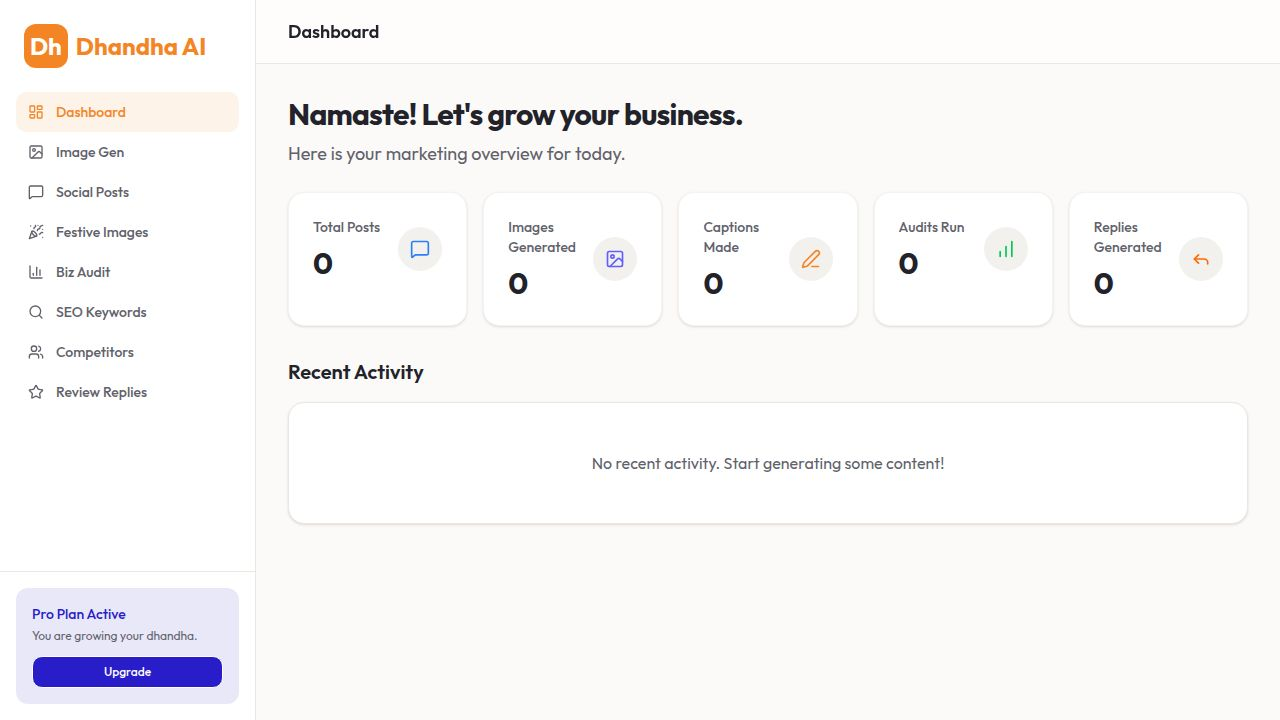
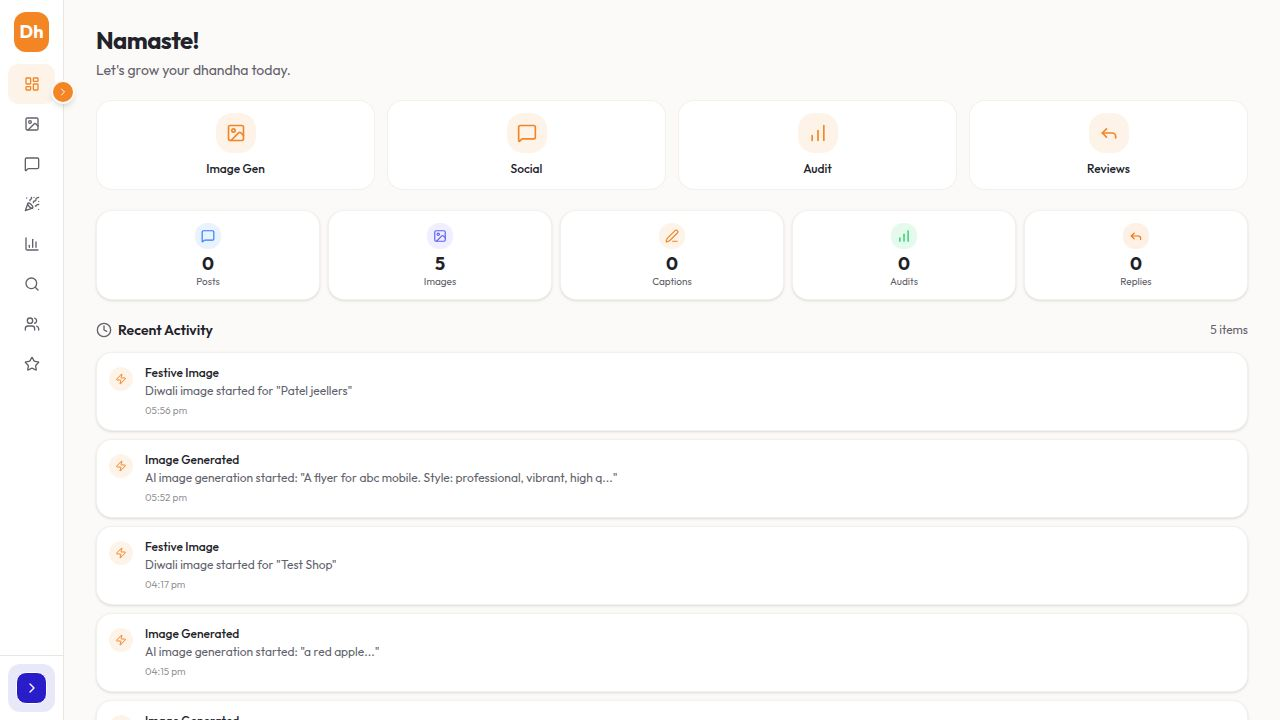
Make the app feel more native and add a one-click Google review posting feature
Update UI to feel more app-like by collapsing the sidebar by default and reorganizing the dashboard. Add a "Copy & Post to Google" button to the review replies section that copies the AI-generated reply and opens the Google Business Profile reviews page.

Replit-Commit-Author: Agent
Replit-Commit-Session-Id: d0573a34-e305-40b2-84bf-22c1485f2ccc
Replit-Commit-Checkpoint-Type: full_checkpoint
Replit-Commit-Event-Id: 390b50ec-3d31-4836-8ac0-2c6d38821a1d
Replit-Commit-Screenshot-Url: https://storage.googleapis.com/screenshot-production-us-central1/495af8c6-737c-4300-bab5-6777eff9217d/d0573a34-e305-40b2-84bf-22c1485f2ccc/lvmfx3k
Replit-Helium-Checkpoint-Created: true

diff --git a/artifacts/dhandha-app/src/pages/review-replies.tsx b/artifacts/dhandha-app/src/pages/review-replies.tsx
@@ -6,7 +6,8 @@ import { Button } from "@/components/ui/button";
 import { Input } from "@/components/ui/input";
 import { Label } from "@/components/ui/label";
 import { Select, SelectContent, SelectItem, SelectTrigger, SelectValue } from "@/components/ui/select";
-import { Star, Copy, MessageSquare } from "lucide-react";
+import { Separator } from "@/components/ui/separator";
+import { Star, MessageSquare, ExternalLink, ClipboardCopy, CheckCircle } from "lucide-react";
 import { useToast } from "@/hooks/use-toast";
 
 export default function ReviewReplies() {
@@ -23,6 +24,7 @@ export default function ReviewReplies() {
     tone: ReviewReplyInputTone.professional,
   });
   const [reply, setReply] = useState<string | null>(null);
+  const [copied, setCopied] = useState(false);
 
   const replyMutation = useGenerateReviewReply();
 
@@ -31,6 +33,7 @@ export default function ReviewReplies() {
       toast({ title: "Fill in all required fields", variant: "destructive" });
       return;
     }
+    setCopied(false);
     replyMutation.mutate(
       { data: { ...form, rating: Number(form.rating) } },
       {
@@ -43,43 +46,69 @@ export default function ReviewReplies() {
     );
   };
 
-  const handleCopy = () => {
+  const handlePostToGoogle = async () => {
     if (!reply) return;
-    navigator.clipboard.writeText(reply);
-    toast({ title: "Reply copied!" });
+
+    try {
+      await navigator.clipboard.writeText(reply);
+      setCopied(true);
+      toast({ title: "Reply copied!" });
+
+      // Open Google Business Profile reviews page in new tab
+      const googleBusinessUrl = `https://business.google.com/reviews`;
+      window.open(googleBusinessUrl, "_blank");
+    } catch {
+      toast({ title: "Could not copy. Please copy manually.", variant: "destructive" });
+    }
+  };
+
+  const handleCopyOnly = async () => {
+    if (!reply) return;
+    try {
+      await navigator.clipboard.writeText(reply);
+      setCopied(true);
+      toast({ title: "Reply copied!" });
+    } catch {
+      toast({ title: "Could not copy", variant: "destructive" });
+    }
   };
 
   return (
     <Layout>
-      <div className="space-y-6 animate-in fade-in duration-500">
-        <div>
-          <h1 className="text-3xl font-bold tracking-tight">AI Review Replies</h1>
-          <p className="text-muted-foreground mt-2">Generate personalized, professional replies to your Google Reviews instantly.</p>
+      <div className="space-y-5 animate-in fade-in duration-300">
+        <div className="pb-2">
+          <h1 className="text-2xl font-bold tracking-tight">Review Replies</h1>
+          <p className="text-muted-foreground mt-1 text-sm">Generate AI replies and post them to Google.</p>
         </div>
 
-        <div className="grid grid-cols-1 lg:grid-cols-2 gap-6">
-          <Card>
-            <CardHeader>
-              <CardTitle>Customer Review</CardTitle>
-              <CardDescription>Paste the review and we will craft the perfect reply.</CardDescription>
+        {!reply ? (
+          <Card className="border-border/60">
+            <CardHeader className="pb-3">
+              <CardTitle className="text-base">Customer Review</CardTitle>
+              <CardDescription className="text-xs">Paste the review to get an AI-crafted reply.</CardDescription>
             </CardHeader>
             <CardContent className="space-y-4">
               <div className="space-y-2">
-                <Label>Business Name *</Label>
-                <Input data-testid="input-business-name" placeholder="e.g. Singh's Dhaba" value={form.businessName} onChange={(e) => setForm({ ...form, businessName: e.target.value })} />
+                <Label className="text-sm">Business Name</Label>
+                <Input
+                  data-testid="input-business-name"
+                  placeholder="e.g. Singh's Dhaba"
+                  value={form.businessName}
+                  onChange={(e) => setForm({ ...form, businessName: e.target.value })}
+                />
               </div>
               <div className="space-y-2">
-                <Label>Customer Review *</Label>
+                <Label className="text-sm">Customer Review</Label>
                 <textarea
                   data-testid="textarea-review"
-                  className="w-full min-h-[120px] rounded-md border border-input bg-background px-3 py-2 text-sm ring-offset-background placeholder:text-muted-foreground focus-visible:outline-none focus-visible:ring-2 focus-visible:ring-ring resize-none"
+                  className="w-full min-h-[100px] rounded-md border border-input bg-background px-3 py-2 text-sm ring-offset-background placeholder:text-muted-foreground focus-visible:outline-none focus-visible:ring-2 focus-visible:ring-ring resize-none"
                   placeholder="Paste the customer review here..."
                   value={form.reviewText}
                   onChange={(e) => setForm({ ...form, reviewText: e.target.value })}
                 />
               </div>
               <div className="space-y-2">
-                <Label>Star Rating</Label>
+                <Label className="text-sm">Star Rating</Label>
                 <div className="flex gap-2">
                   {[1, 2, 3, 4, 5].map((star) => (
                     <button
@@ -97,7 +126,7 @@ export default function ReviewReplies() {
                 </div>
               </div>
               <div className="space-y-2">
-                <Label>Reply Tone</Label>
+                <Label className="text-sm">Reply Tone</Label>
                 <Select value={form.tone} onValueChange={(v) => setForm({ ...form, tone: v as typeof ReviewReplyInputTone[keyof typeof ReviewReplyInputTone] })}>
                   <SelectTrigger data-testid="select-tone"><SelectValue /></SelectTrigger>
                   <SelectContent>
@@ -114,35 +143,63 @@ export default function ReviewReplies() {
               </Button>
             </CardContent>
           </Card>
-
-          <Card>
-            <CardHeader>
-              <div className="flex items-center justify-between">
-                <div>
-                  <CardTitle>Generated Reply</CardTitle>
-                  <CardDescription>Copy and paste this into your Google Business Profile.</CardDescription>
-                </div>
-                {reply && (
-                  <Button variant="outline" size="sm" data-testid="button-copy-reply" onClick={handleCopy}>
-                    <Copy className="h-4 w-4 mr-2" />Copy
-                  </Button>
-                )}
-              </div>
-            </CardHeader>
-            <CardContent>
-              {reply ? (
-                <div className="bg-muted/50 rounded-lg p-4">
+        ) : (
+          <div className="space-y-4">
+            <Card className="border-primary/20">
+              <CardHeader className="pb-3">
+                <CardTitle className="text-base">Generated Reply</CardTitle>
+                <CardDescription className="text-xs">Your AI reply is ready to post on Google.</CardDescription>
+              </CardHeader>
+              <CardContent>
+                <div className="bg-primary/5 border border-primary/10 rounded-lg p-4">
                   <p data-testid="text-reply" className="text-sm leading-relaxed whitespace-pre-wrap">{reply}</p>
                 </div>
-              ) : (
-                <div className="h-48 flex flex-col items-center justify-center border-2 border-dashed border-border rounded-lg text-muted-foreground">
-                  <MessageSquare className="h-10 w-10 mb-3 opacity-30" />
-                  <p className="text-sm">Your AI reply will appear here</p>
+
+                <div className="flex gap-2 mt-4">
+                  <Button className="flex-1" onClick={handlePostToGoogle} data-testid="button-post-google">
+                    <ExternalLink className="h-4 w-4 mr-2" />
+                    Copy & Post to Google
+                  </Button>
+                  <Button variant="outline" size="icon" onClick={handleCopyOnly} data-testid="button-copy-reply">
+                    {copied ? <CheckCircle className="h-4 w-4 text-green-500" /> : <ClipboardCopy className="h-4 w-4" />}
+                  </Button>
                 </div>
-              )}
-            </CardContent>
-          </Card>
-        </div>
+
+                <div className="flex gap-2 mt-3">
+                  <Button variant="ghost" className="w-full text-sm" onClick={() => { setReply(null); setCopied(false); }}>
+                    Generate another reply
+                  </Button>
+                </div>
+              </CardContent>
+            </Card>
+
+            <Card className="border-border/60">
+              <CardHeader className="pb-3">
+                <CardTitle className="text-base">Review Details</CardTitle>
+              </CardHeader>
+              <CardContent className="space-y-3">
+                <div>
+                  <p className="text-xs text-muted-foreground mb-1">Business</p>
+                  <p className="text-sm font-medium">{form.businessName}</p>
+                </div>
+                <Separator />
+                <div>
+                  <p className="text-xs text-muted-foreground mb-1">Rating</p>
+                  <div className="flex gap-1">
+                    {[1, 2, 3, 4, 5].map((s) => (
+                      <Star key={s} className={`h-4 w-4 ${form.rating >= s ? "text-yellow-400 fill-yellow-400" : "text-muted"}`} />
+                    ))}
+                  </div>
+                </div>
+                <Separator />
+                <div>
+                  <p className="text-xs text-muted-foreground mb-1">Original Review</p>
+                  <p className="text-sm text-muted-foreground line-clamp-3">{form.reviewText}</p>
+                </div>
+              </CardContent>
+            </Card>
+          </div>
+        )}
       </div>
     </Layout>
   );

diff --git a/artifacts/dhandha-app/src/pages/dashboard.tsx b/artifacts/dhandha-app/src/pages/dashboard.tsx
@@ -1,77 +1,108 @@
 import { Layout } from "@/components/layout";
-import { useGetDashboardSummary, getGetDashboardSummaryQueryKey } from "@workspace/api-client-react";
-import { Card, CardContent, CardHeader, CardTitle, CardDescription } from "@/components/ui/card";
-import { MessageSquare, ImageIcon, Edit3, BarChart, Reply, Clock } from "lucide-react";
+import { useGetDashboardSummary } from "@workspace/api-client-react";
+import { Card, CardContent } from "@/components/ui/card";
+import { MessageSquare, ImageIcon, Edit3, BarChart, Reply, Clock, TrendingUp, Zap } from "lucide-react";
 import { Skeleton } from "@/components/ui/skeleton";
 
 export default function Dashboard() {
   const { data: summary, isLoading } = useGetDashboardSummary();
 
   const stats = [
-    { label: "Total Posts", value: summary?.totalPosts, icon: MessageSquare, color: "text-blue-500" },
-    { label: "Images Generated", value: summary?.imagesGenerated, icon: ImageIcon, color: "text-indigo-500" },
-    { label: "Captions Made", value: summary?.captionsGenerated, icon: Edit3, color: "text-primary" },
-    { label: "Audits Run", value: summary?.auditsRun, icon: BarChart, color: "text-green-500" },
-    { label: "Replies Generated", value: summary?.repliesGenerated, icon: Reply, color: "text-orange-500" },
+    { label: "Posts", value: summary?.totalPosts, icon: MessageSquare, color: "bg-blue-500/10 text-blue-500" },
+    { label: "Images", value: summary?.imagesGenerated, icon: ImageIcon, color: "bg-indigo-500/10 text-indigo-500" },
+    { label: "Captions", value: summary?.captionsGenerated, icon: Edit3, color: "bg-primary/10 text-primary" },
+    { label: "Audits", value: summary?.auditsRun, icon: BarChart, color: "bg-green-500/10 text-green-500" },
+    { label: "Replies", value: summary?.repliesGenerated, icon: Reply, color: "bg-orange-500/10 text-orange-500" },
+  ];
+
+  const quickActions = [
+    { label: "Image Gen", icon: ImageIcon, href: "/image-generator" },
+    { label: "Social", icon: MessageSquare, href: "/social-posts" },
+    { label: "Audit", icon: BarChart, href: "/business-audit" },
+    { label: "Reviews", icon: Reply, href: "/review-replies" },
   ];
 
   return (
     <Layout>
-      <div className="space-y-6 animate-in fade-in zoom-in duration-500">
+      <div className="space-y-5 animate-in fade-in duration-300">
         <div>
-          <h1 className="text-3xl font-bold tracking-tight">Namaste! Let's grow your business.</h1>
-          <p className="text-muted-foreground mt-2 text-lg">Here is your marketing overview for today.</p>
+          <h1 className="text-2xl font-bold tracking-tight">Namaste!</h1>
+          <p className="text-muted-foreground mt-1 text-sm">Let's grow your dhandha today.</p>
         </div>
 
-        <div className="grid grid-cols-1 md:grid-cols-2 lg:grid-cols-5 gap-4">
+        {/* Quick Actions */}
+        <div className="grid grid-cols-4 gap-3">
+          {quickActions.map((action) => (
+            <a key={action.href} href={action.href} className="flex flex-col items-center gap-2 p-3 bg-card border border-border/60 rounded-xl hover:border-primary/40 hover:bg-primary/5 transition-colors">
+              <div className="bg-primary/10 p-2.5 rounded-xl">
+                <action.icon className="h-5 w-5 text-primary" />
+              </div>
+              <span className="text-xs font-medium">{action.label}</span>
+            </a>
+          ))}
+        </div>
+
+        {/* Stats */}
+        <div className="grid grid-cols-5 gap-2">
           {stats.map((stat, i) => (
-            <Card key={i} className="border-border/50 shadow-sm hover:shadow-md transition-all">
-              <CardContent className="p-6">
-                <div className="flex items-center justify-between space-x-2">
-                  <div className="flex-1">
-                    <p className="text-sm font-medium text-muted-foreground">{stat.label}</p>
-                    <div className="mt-2 flex items-baseline text-3xl font-bold">
-                      {isLoading ? <Skeleton className="h-8 w-16" /> : stat.value || 0}
-                    </div>
-                  </div>
-                  <div className={`p-3 bg-muted rounded-full ${stat.color}`}>
-                    <stat.icon className="h-5 w-5" />
-                  </div>
+            <Card key={i} className="border-border/60">
+              <CardContent className="p-3 flex flex-col items-center text-center">
+                <div className={`p-1.5 rounded-lg mb-1.5 ${stat.color}`}>
+                  <stat.icon className="h-3.5 w-3.5" />
                 </div>
+                <span className="text-lg font-bold leading-none">
+                  {isLoading ? <Skeleton className="h-5 w-5 inline-block" /> : stat.value || 0}
+                </span>
+                <p className="text-[10px] text-muted-foreground mt-1 leading-none">{stat.label}</p>
               </CardContent>
             </Card>
           ))}
         </div>
 
-        <h2 className="text-xl font-semibold mt-8 mb-4">Recent Activity</h2>
-        <Card>
-          <CardContent className="p-0">
-            {isLoading ? (
-              <div className="p-6 space-y-4">
-                {[1, 2, 3].map(i => <Skeleton key={i} className="h-12 w-full" />)}
-              </div>
-            ) : summary?.recentActivity?.length ? (
-              <div className="divide-y divide-border">
-                {summary.recentActivity.map((activity, i) => (
-                  <div key={i} className="p-4 flex items-start gap-4 hover:bg-muted/50 transition-colors">
-                    <div className="mt-0.5 bg-primary/10 p-2 rounded-full text-primary">
-                      <Clock className="h-4 w-4" />
+        {/* Activity */}
+        <div>
+          <div className="flex items-center justify-between mb-3">
+            <h2 className="text-sm font-semibold flex items-center gap-1.5">
+              <Clock className="h-4 w-4 text-muted-foreground" />
+              Recent Activity
+            </h2>
+            {summary?.recentActivity?.length ? (
+              <span className="text-xs text-muted-foreground">{summary.recentActivity.length} items</span>
+            ) : null}
+          </div>
+
+          {isLoading ? (
+            <div className="space-y-2">
+              {[1, 2, 3].map((i) => <Skeleton key={i} className="h-14 w-full rounded-lg" />)}
+            </div>
+          ) : summary?.recentActivity?.length ? (
+            <div className="space-y-2">
+              {summary.recentActivity.map((activity, i) => (
+                <Card key={i} className="border-border/60">
+                  <CardContent className="p-3 flex items-start gap-3">
+                    <div className="mt-0.5 bg-primary/10 p-1.5 rounded-full shrink-0">
+                      <Zap className="h-3 w-3 text-primary" />
                     </div>
-                    <div>
-                      <p className="font-medium text-sm">{activity.type}</p>
-                      <p className="text-muted-foreground text-sm mt-1">{activity.description}</p>
-                      <p className="text-xs text-muted-foreground mt-2">{new Date(activity.time).toLocaleString()}</p>
+                    <div className="min-w-0">
+                      <p className="text-xs font-medium">{activity.type}</p>
+                      <p className="text-xs text-muted-foreground mt-0.5 line-clamp-1">{activity.description}</p>
+                      <p className="text-[10px] text-muted-foreground/70 mt-1">
+                        {new Date(activity.time).toLocaleTimeString("en-IN", { hour: "2-digit", minute: "2-digit" })}
+                      </p>
                     </div>
-                  </div>
-                ))}
-              </div>
-            ) : (
-              <div className="p-12 text-center text-muted-foreground">
-                <p>No recent activity. Start generating some content!</p>
-              </div>
-            )}
-          </CardContent>
-        </Card>
+                  </CardContent>
+                </Card>
+              ))}
+            </div>
+          ) : (
+            <Card className="border-border/60">
+              <CardContent className="p-6 text-center text-muted-foreground">
+                <TrendingUp className="h-8 w-8 mx-auto mb-2 opacity-30" />
+                <p className="text-sm">No activity yet. Start growing!</p>
+              </CardContent>
+            </Card>
+          )}
+        </div>
       </div>
     </Layout>
   );

diff --git a/artifacts/dhandha-app/src/components/layout.tsx b/artifacts/dhandha-app/src/components/layout.tsx
@@ -17,7 +17,7 @@ const NAV_ITEMS = [
 
 export function Layout({ children }: { children: React.ReactNode }) {
   const [location] = useLocation();
-  const [collapsed, setCollapsed] = useState(false);
+  const [collapsed, setCollapsed] = useState(true);
 
   return (
     <div className="min-h-screen flex bg-background w-full">
@@ -84,12 +84,7 @@ export function Layout({ children }: { children: React.ReactNode }) {
 
       {/* Main Content */}
       <main className="flex-1 flex flex-col h-screen overflow-hidden">
-        <header className="h-16 border-b border-border bg-card/50 backdrop-blur flex items-center px-8 shrink-0">
-          <h2 className="font-semibold text-lg">
-            {NAV_ITEMS.find((i) => i.href === location)?.label || "Welcome"}
-          </h2>
-        </header>
-        <div className="flex-1 overflow-y-auto p-8">
+        <div className="flex-1 overflow-y-auto p-6">
           <div className="max-w-6xl mx-auto">
             {children}
           </div>
